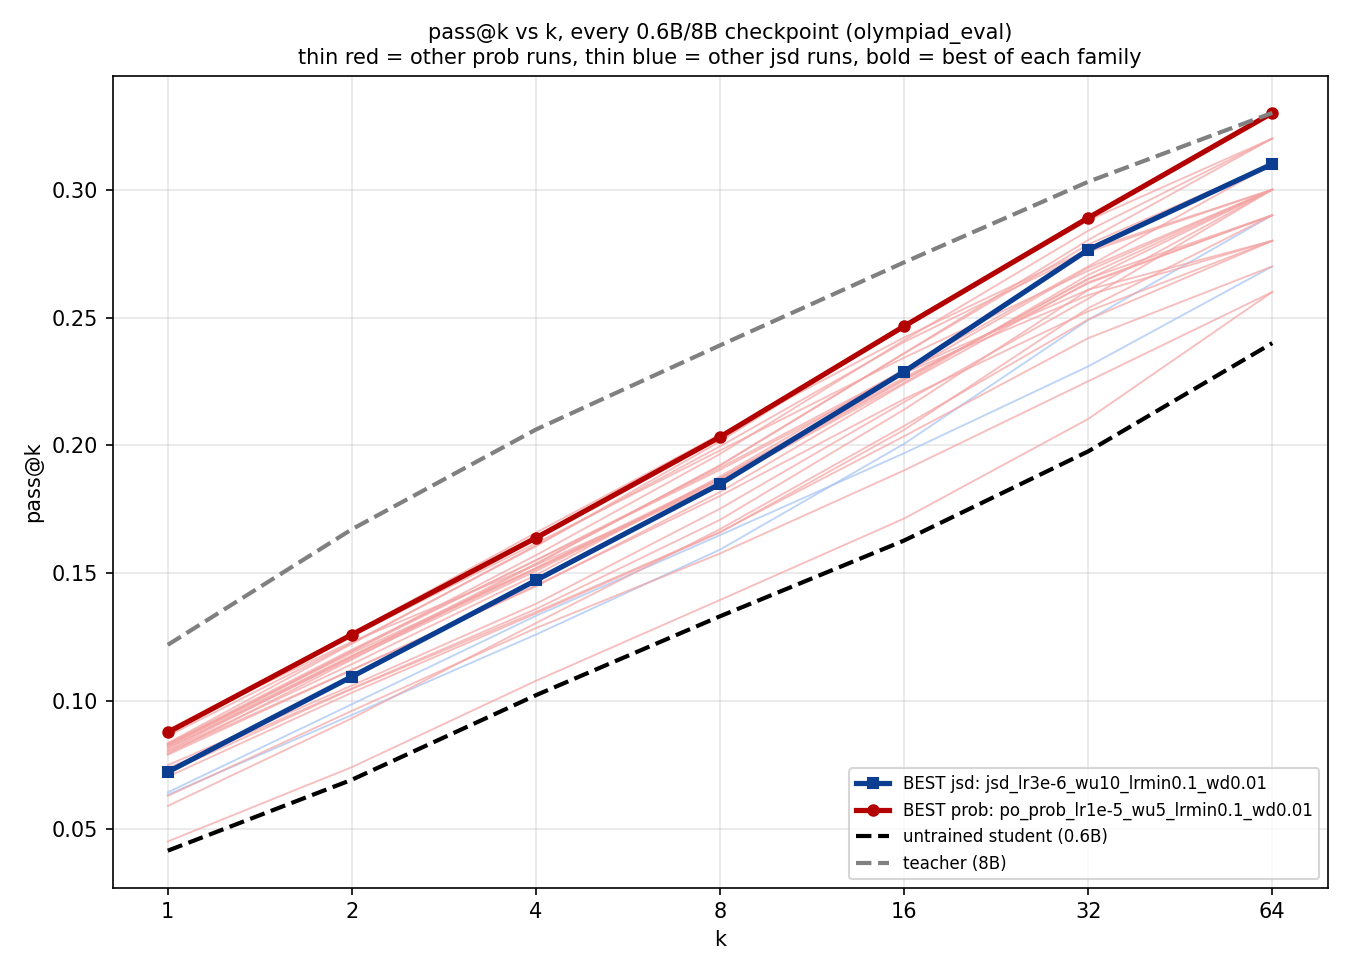
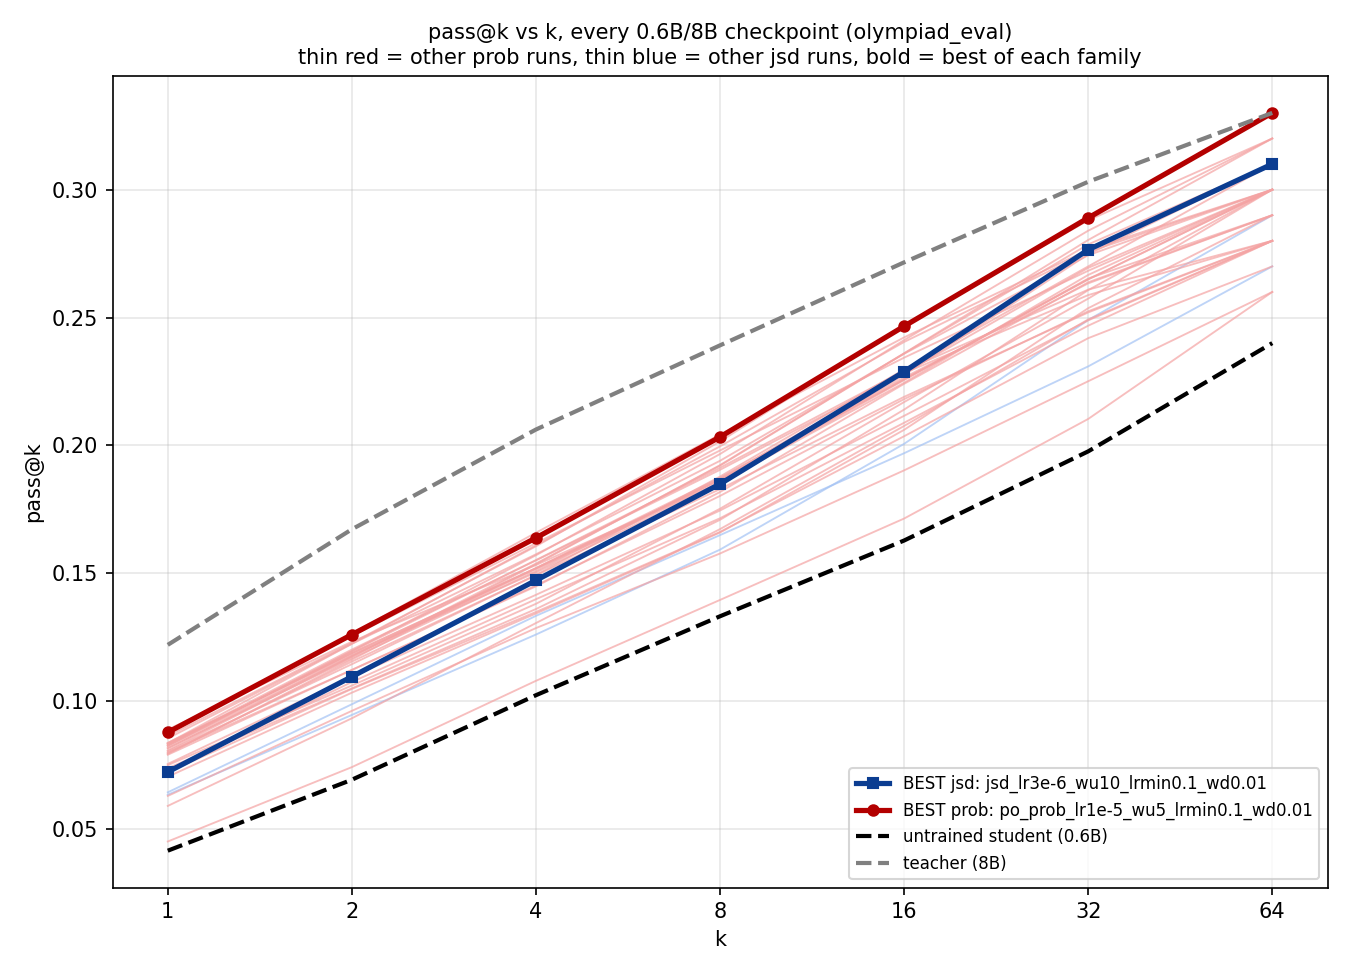
docs(notes): incorporate M8/M16-bare/gradclip10/ttemp/ceanneal-lr3e-6 pass@k data
New offline ckpt_best eval batch (33 checkpoints total, up from 27) completes
the M-family (M4/M8/M16 bare/M16 cold) and grad_clip (10/100/1000) families,
adds teacher-temp (0.5/0.7) and a ceanneal3000_auxw0.5 point at lr=3e-6.
None of these show a family-wide pass@k lever -- each has exactly one point
that clears the gsm8k floor and the rest don't, matching the already-known
per-checkpoint (not per-hyperparameter) gsm8k pattern. Regenerated the three
pass@k curve charts and refreshed direction/floor-clearing counts (33 vs
prior 27) throughout the note.

diff --git a/notes/hyperparam_sweep_research_report.md b/notes/hyperparam_sweep_research_report.md
@@ -31,11 +31,11 @@
 | 100 | 5.535 | ~48% | ~5.40 | [link](https://wandb.ai/rmukund16-indian-institute-of-technology-hyderabad/distillspec-pipeline/runs/xr0bchto) |
 | 1000 | 5.692 | ~0% | ~5.48 | [link](https://wandb.ai/rmukund16-indian-institute-of-technology-hyderabad/distillspec-pipeline/runs/1obcwkp6) |
 
-  All four grad_clip variants show the same early-peak-then-decline shape in `smoothed_block_eff`: e.g. 1000 peaks ~5.68–5.69 then falls to ~5.48 by step 4800, 100 peaks ~5.52 then falls to ~5.40. The higher peak at 1000 does NOT persist — by end-of-run all thresholds converge to ~5.40–5.48, within noise of each other; 1000's decline lands marginally above 10/100's, not worse. Since `ckpt_best` deploys the peak (not the final step), the peak is the number that counts, which is why the table's best_val_block_eff differs from the raw chart's right edge. In every case `val/forgetting` climbs in lockstep (0 → ~1.0–1.2) as block_eff falls — the forgetting metric doing its job, not a gradient-sign bug (`train/loss` decreases monotonically throughout). Grad_clip does not prevent this decline at any threshold tested. None of the four points close the gap to jsd's real best-BE deployment pick (5.994, see the jsd-vs-prob fair comparison below) — grad_clip tuning moves prob's BE by ~0.1–0.2 at most, not enough to touch that ~0.3–0.5 gap.
+  All four grad_clip variants show the same early-peak-then-decline shape in `smoothed_block_eff`: e.g. 1000 peaks ~5.68–5.69 then falls to ~5.48 by step 4800, 100 peaks ~5.52 then falls to ~5.40. The higher peak at 1000 does NOT persist — by end-of-run all thresholds converge to ~5.40–5.48, within noise of each other; 1000's decline lands marginally above 10/100's, not worse. Since `ckpt_best` deploys the peak (not the final step), the peak is the number that counts, which is why the table's best_val_block_eff differs from the raw chart's right edge. In every case `val/forgetting` climbs in lockstep (0 → ~1.0–1.2) as block_eff falls — the forgetting metric doing its job, not a gradient-sign bug (`train/loss` decreases monotonically throughout). Grad_clip does not prevent this decline at any threshold tested. None of the four points close the gap to jsd's real best-BE deployment pick (5.994, see the jsd-vs-prob fair comparison below) — grad_clip tuning moves prob's BE by ~0.1–0.2 at most, not enough to touch that ~0.3–0.5 gap. Pass@k cross-check agrees with "no consistent winner": of the three clip values now offline-evaluated, only `gradclip100` clears `gsm8k` k16/k32/k64 above jsd; `gradclip10` and `gradclip1000` clear nothing (see [passk_prob_vs_jsd_research_note.md](passk_prob_vs_jsd_research_note.md)).
 - **Teacher temp {0.5,0.7} vs default (1.0):** `prob`, lr=1e-5, single seed each — 0.7 edges out 0.5 and the default (5.643 > 5.602 > 5.517). Spread is 0.126 BE, the same order as other single-axis probes at this exact lr=1e-5 point (grad_clip's spread was 0.130, lr_min's 0.072) — within noise, no confirmed effect. [0.5](https://wandb.ai/rmukund16-indian-institute-of-technology-hyderabad/distillspec-pipeline/runs/dufzb7pw) · [0.7](https://wandb.ai/rmukund16-indian-institute-of-technology-hyderabad/distillspec-pipeline/runs/tybxo9l6) · [1.0 default](https://wandb.ai/rmukund16-indian-institute-of-technology-hyderabad/distillspec-pipeline/runs/pe2pb5la).
 - **Multi-root, tail-reuse estimator — N {16,32} and random-offset, `prob` lr=1e-5:** N=16 vs N=32 (both fixed-offset): 5.699 vs 5.647, Δ=0.052 — within noise, no N effect. Offset on vs off at N=16: 5.744 vs 5.699, Δ=0.045 — within noise, no offset effect. All three beat the single-root baseline (5.608) by 0.039–0.136, with N=16+random-offset (5.744, Δ=0.136) sitting right at the edge of the noise floor, not a verified win.
 - **Doc-faithful fresh multi-root estimator vs tail-reuse — N=16, M=1, `prob` lr=1e-5 (CLOSED):** `po_prob_multiroot_N16_freshM1_lr1e-5_wu20` finished at best_val_block_eff=5.653 (best_smoothed=5.561), reached at step 4000/5000 — notably late relative to every other `prob` config tested (all of which peaked well before step 2400) and held close to that peak through the final val (5.609 at step 4800, only 0.044 below best, not a sharp collapse). Despite the different-shaped trajectory, the final magnitude (5.653) sits *below* tail-reuse N16's own 5.699, Δ=-0.046 — within noise. The fresh, independent-per-root estimator (which removes tail-reuse's cross-root correlation, matching the doc §5 spec literally) shows no detectable improvement or regression over the cheaper tail-reuse approximation here. Combined with the N/offset results above, every axis tested on the multi-root estimator (N, offset, fresh-vs-tail-reuse) has come back within noise — this sub-experiment is closed as inconclusive, not pursued further (a proposed grad_clip=1000 + extended-steps follow-up was considered and dropped given this result).
-- **Single-root M {4,8,16}, `prob` lr=3e-6, all cold-start from `Qwen/Qwen3-0.6B` (CLOSED):** best_val_block_eff — M4=5.701, M8=5.810, M16=5.619 (first run) / **5.694 (clean cold-start replication `po_prob_M16_lr3e-6_wu20_cold`, done, 5000 steps)**. The replication does NOT reproduce the earlier M16 decline: 5.694 sits between M4 and M8, tied with M4 (Δ=0.007) and only 0.116 below M8. The two M16 seeds span 5.619–5.694 (spread 0.075, within noise); the whole M4/M8/M16 range (≈5.66–5.81) fits inside the 0.10–0.15 floor. **Retraction:** the earlier "M16 genuinely worse, exceeds the floor" claim was a single-seed low draw and did not replicate — no confirmed M effect, and M8's numerical lead is at the edge of the noise floor, not a verified win. Experiment closed.
+- **Single-root M {4,8,16}, `prob` lr=3e-6, all cold-start from `Qwen/Qwen3-0.6B` (CLOSED):** best_val_block_eff — M4=5.701, M8=5.810, M16=5.619 (first run) / **5.694 (clean cold-start replication `po_prob_M16_lr3e-6_wu20_cold`, done, 5000 steps)**. The replication does NOT reproduce the earlier M16 decline: 5.694 sits between M4 and M8, tied with M4 (Δ=0.007) and only 0.116 below M8. The two M16 seeds span 5.619–5.694 (spread 0.075, within noise); the whole M4/M8/M16 range (≈5.66–5.81) fits inside the 0.10–0.15 floor. **Retraction:** the earlier "M16 genuinely worse, exceeds the floor" claim was a single-seed low draw and did not replicate — no confirmed M effect, and M8's numerical lead is at the edge of the noise floor, not a verified win. Experiment closed. Pass@k cross-check (real `ckpt_best` eval, see [passk_prob_vs_jsd_research_note.md](passk_prob_vs_jsd_research_note.md)) agrees: no `M`-family-wide lever — M4/M8/M16(bare) all clear `gsm8k` k16/k32/k64 above jsd, but the `M16_cold` replication doesn't clear at all, so the pattern tracks individual checkpoints, not `M` itself.
 
 ![CE-anneal sweep dashboard](../results/passK/sweep_dashboard_ceanneal.png)
 

diff --git a/notes/passk_prob_vs_jsd_research_note.md b/notes/passk_prob_vs_jsd_research_note.md
@@ -6,7 +6,7 @@
 `c` correct among them, averaged over 100 held-out prompts. At `k=n=64` this
 is just "did ≥1 of 64 tries succeed" per prompt.
 
-27 checkpoints, real `ckpt_best` offline eval:
+33 checkpoints, real `ckpt_best` offline eval:
 [results/passK/passk_hparam_sweep.csv](../results/passK/passk_hparam_sweep.csv).
 Noise floor = 2×std(pass@k) across the flat low-LR `prob` cluster, per k per
 dataset — a delta only counts as real if it clears this.
@@ -35,14 +35,14 @@ measurements from two different data sources, not "BE on that dataset."
   baseline are explained in the footnote.
 
 - Checked against jsd on pass@k, per dataset. Two different questions,
-  not the same thing: **direction** (of 27 checkpoints, how many sit
+  not the same thing: **direction** (of 33 checkpoints, how many sit
   numerically above jsd at this k) vs **floor-clearing** (whether that gap
   is big enough to call a real effect, not just noise). Direction turns
   out to be overwhelmingly prob-favoring on *every* dataset — the
   difference between datasets is entirely in whether that direction
   survives a floor.
 
-  - `math_eval`: **21–25 of 27** sit above jsd at k1–k32 (drops to 13/22 at
+  - `math_eval`: **26–31 of 33** sit above jsd at k1–k32 (drops to 18/28 at
     k64). Despite that consistent direction, **nothing clears a real
     floor** at any k — the per-config gaps are individually too small.
 
@@ -53,9 +53,9 @@ measurements from two different data sources, not "BE on that dataset."
     lines sit above the thin blue lines too — but the two families'
     spreads overlap enough that no single gap clears a real floor.
 
-  - `olympiad_eval`: **23–26 of 27** sit above jsd at k1–k32 (drops to
-    15/23 at k64) — just as consistent a direction as `math_eval`, if not
-    more so. Same result as `math_eval` though: only 2/27 gaps are large
+  - `olympiad_eval`: **27–32 of 33** sit above jsd at k1–k32 (drops to
+    18/29 at k64) — just as consistent a direction as `math_eval`, if not
+    more so. Same result as `math_eval` though: only 2/33 gaps are large
     enough to individually clear the floor.
 
     ![pass@k, every checkpoint, olympiad_eval](../results/passK/passk_curves_all_olympiad_eval.png)
@@ -66,8 +66,9 @@ measurements from two different data sources, not "BE on that dataset."
     consistent the raw direction actually is here; it's the *floor*, not
     the direction, that most configs don't clear.
 
-  - `gsm8k_eval`: **~15/27** clearly win above noise, concentrated at
-    k16/k32/k64 — the one held-out set with a real pattern. Each of these
+  - `gsm8k_eval`: **14–21/33** clearly win above noise, concentrated at
+    k16/k32/k64 (0/33 at k1–k4) — the one held-out set with a real
+    pattern. Each of these
     checkpoints' *training-time* `best_val_block_eff` (measured on
     `math_val`, unrelated to `gsm8k_eval`) sits 0.18–0.46 below jsd's
     5.994 — the checkpoints that do best on this held-out pass@k set were
@@ -90,13 +91,32 @@ measurements from two different data sources, not "BE on that dataset."
   across the whole N-family tested.**
 
 - **Grad_clip does NOT show a consistent pass@k effect** — `gradclip100`
-  clears `gsm8k` k16/k32/k64 (Δ 0.033–0.04); `gradclip1000` clears nothing
-  anywhere. **No consistent winner across the family** — don't generalize
-  from the `gradclip100` result alone.
+  clears `gsm8k` k16/k32/k64 (Δ 0.033–0.04); `gradclip10` and `gradclip1000`
+  clear nothing anywhere (gradclip10's closest miss is k32, Δ=0.020 vs
+  floor 0.021). **No consistent winner across the family** — don't
+  generalize from the `gradclip100` result alone; it's 1 of 3 clip values
+  tested, not a trend.
 
-- **Prefix_M family: not yet assessable.** Only `M16_lr3e-6_wu20_cold` is in
-  the current offline-eval set; `M4`/`M8` haven't gone through `passk_eval.py`
-  yet (pending the `/sensei-fs-3` batch). Revisit once that data lands.
+- **Prefix_M family does NOT show a consistent pass@k effect either**, now
+  that `M4`/`M8`/`M16` (bare)/`M16_cold` are all in the offline-eval set.
+  Three of the four clear `gsm8k` k16/k32/k64 — `M4` (Δ 0.021–0.030), `M8`
+  (Δ 0.030–0.037), `M16` bare (Δ 0.030–0.032) — but the clean cold-start
+  `M16` replication clears nothing (Δ 0.010–0.021, below floor). Since two
+  same-config `M16` seeds land on opposite sides of the floor, and the
+  clearing magnitude doesn't scale with `M`, this isn't an `M` lever — it's
+  the same already-known gsm8k pattern showing up in most (not all)
+  `prob` checkpoints regardless of family.
+
+- **Teacher temp shows the same isolated, non-lever pattern**: `ttemp=0.5`
+  clears `gsm8k` k16/k32/k64 (Δ 0.027–0.033), `ttemp=0.7` clears nothing
+  anywhere. One point in a two-point family clearing isn't a confirmed
+  temp effect, same caveat as `gradclip100` above.
+
+- **CE-anneal (aux_weight=0.5) at lr=3e-6 tracks its own no-anneal base**,
+  not a new effect: both clear `gsm8k` k32 (anneal Δ=0.028, base Δ=0.021),
+  anneal additionally clears k16 (Δ=0.033) where the base doesn't. Anneal
+  doesn't move the needle much at this LR — unlike lr=1e-5, where
+  `ceanneal3000_auxw0.5` is prob's actual best-BE deployment pick.
 
 ## Footnote — why one checkpoint's trained draft is below the untrained student
 
